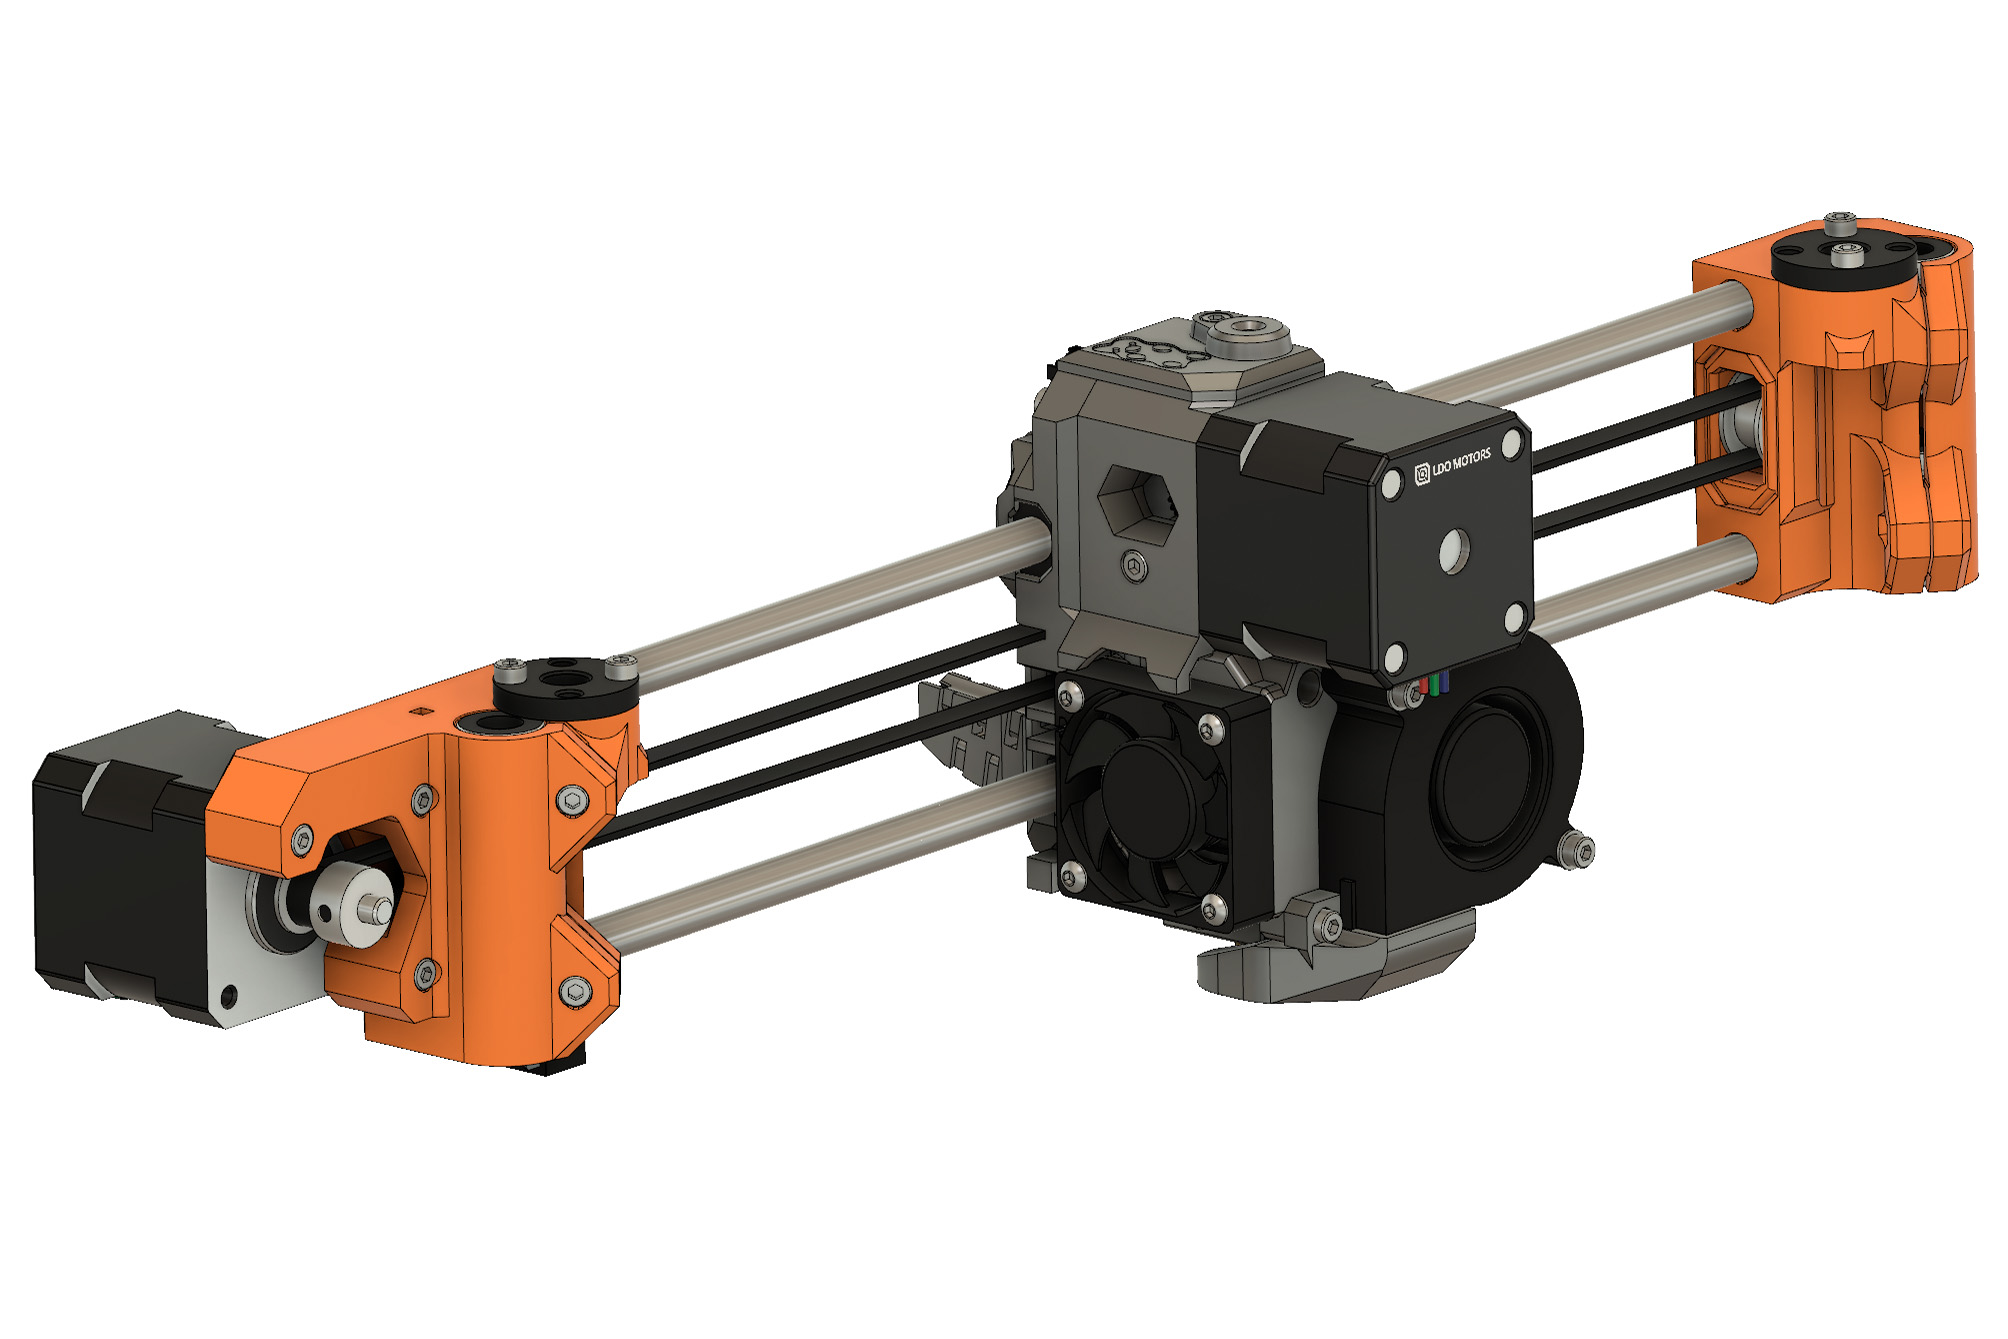
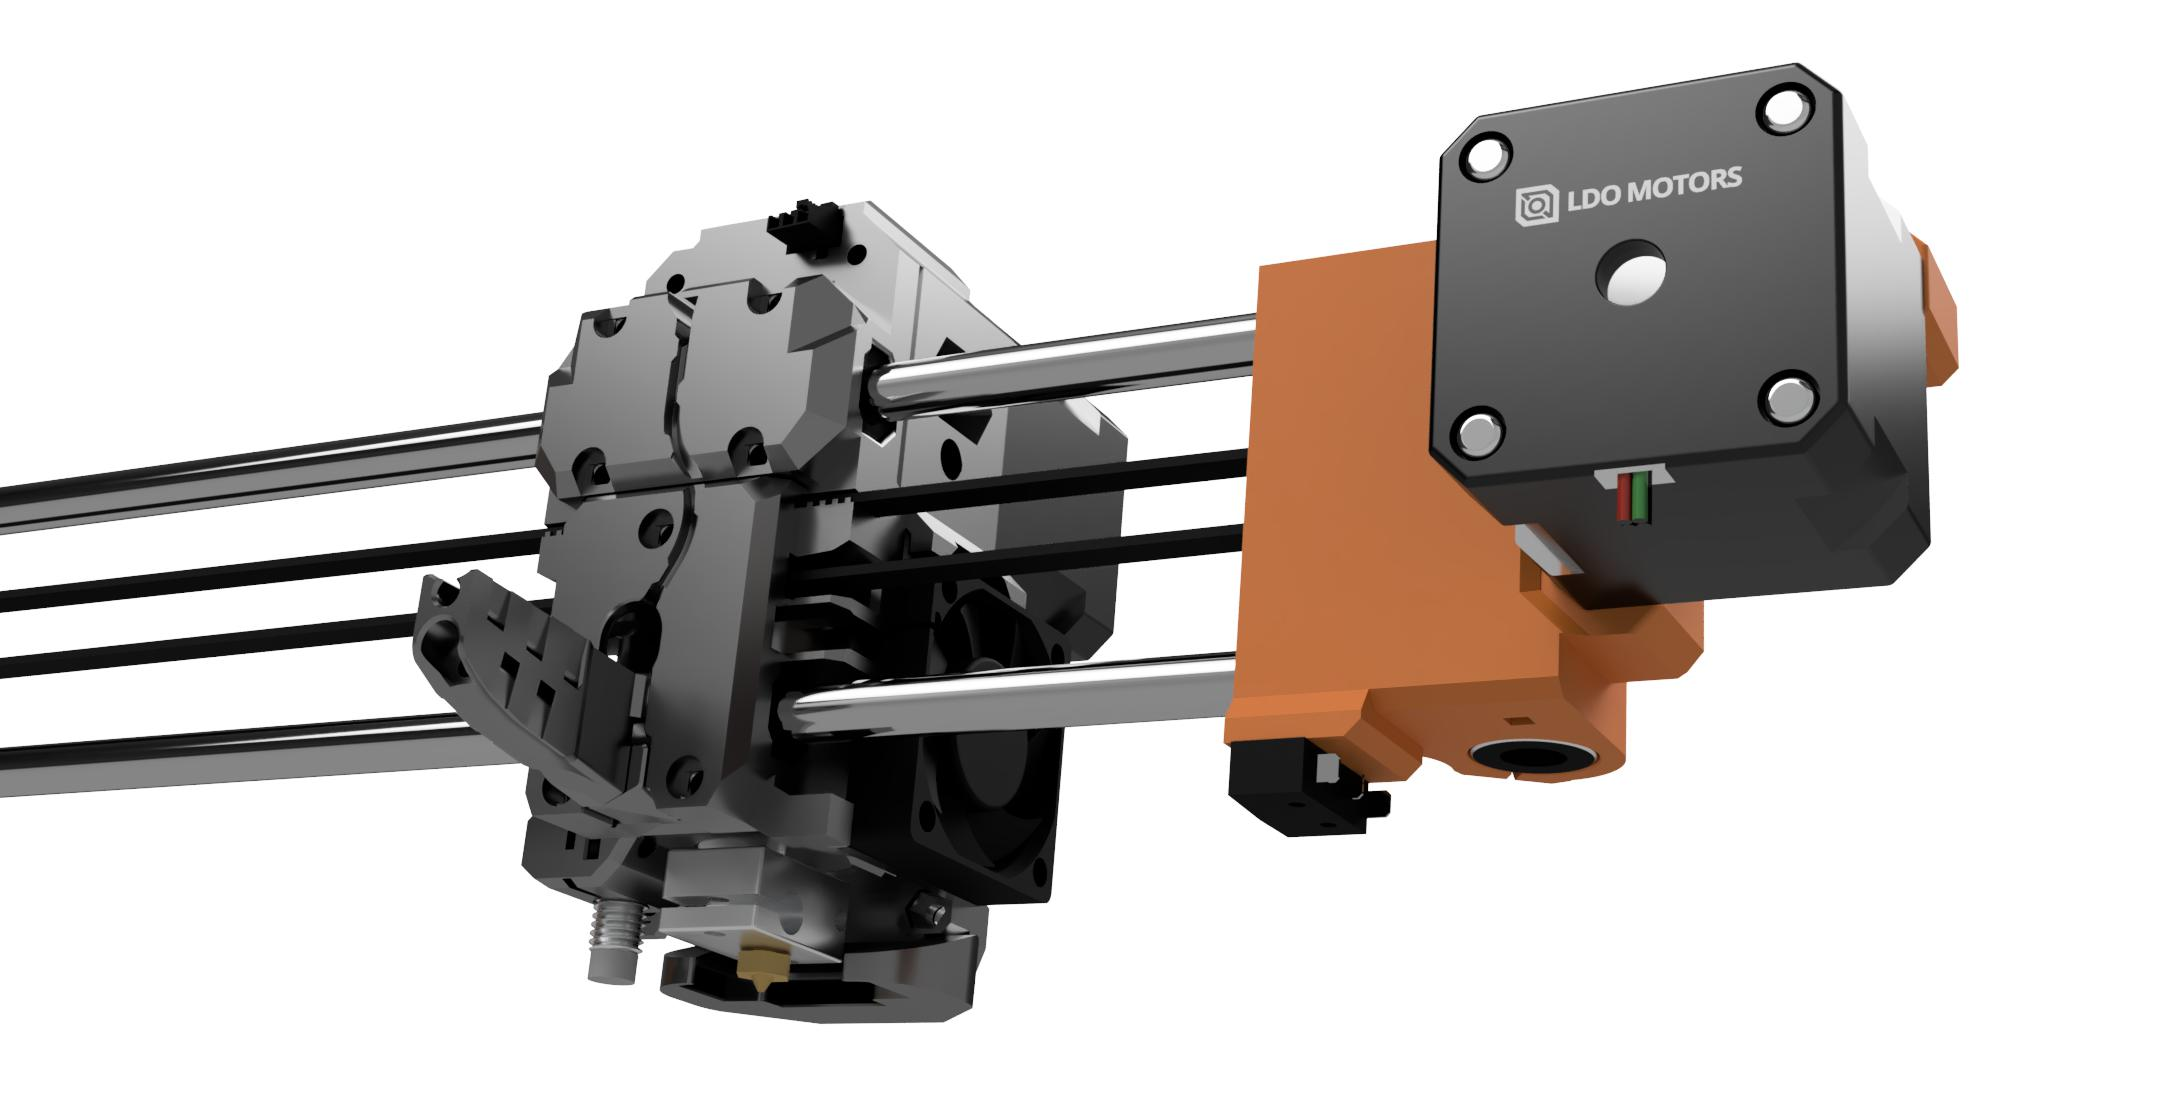
new pictures

diff --git a/README.md b/README.md
@@ -128,11 +128,13 @@ Here are the places were the Bear project is the most active. Do not hesitate to
 
 ## Images
 
-![Bear extruder and X axis](doc/photos/5D3_5336.jpg)
+![Bear extruder and X axis](doc/rendering/full_assembly_01_800px.jpg)
 
-![Bear X end motor](doc/photos/5D3_5428.jpg)
+![Bear extruder and X axis](doc/rendering/full_assembly_03_800px.jpg)
 
-![Bear X end idler](doc/photos/5D3_5600.jpg)
+![Bear X end motor](doc/photos/DSCF2763.jpg)
+
+![Bear X end idler](doc/photos/DSCF2754.jpg)
 
 ![Bear extruder](doc/photos/5D3_5340.jpg)
 
@@ -142,7 +144,7 @@ Here are the places were the Bear project is the most active. Do not hesitate to
 
 ![Bear E3D Hemera](doc/photos/5D3_7562.jpg)
 
-
+> Pictures from Flobler and Grégoire Saunier
 
 
 ## Support my work
